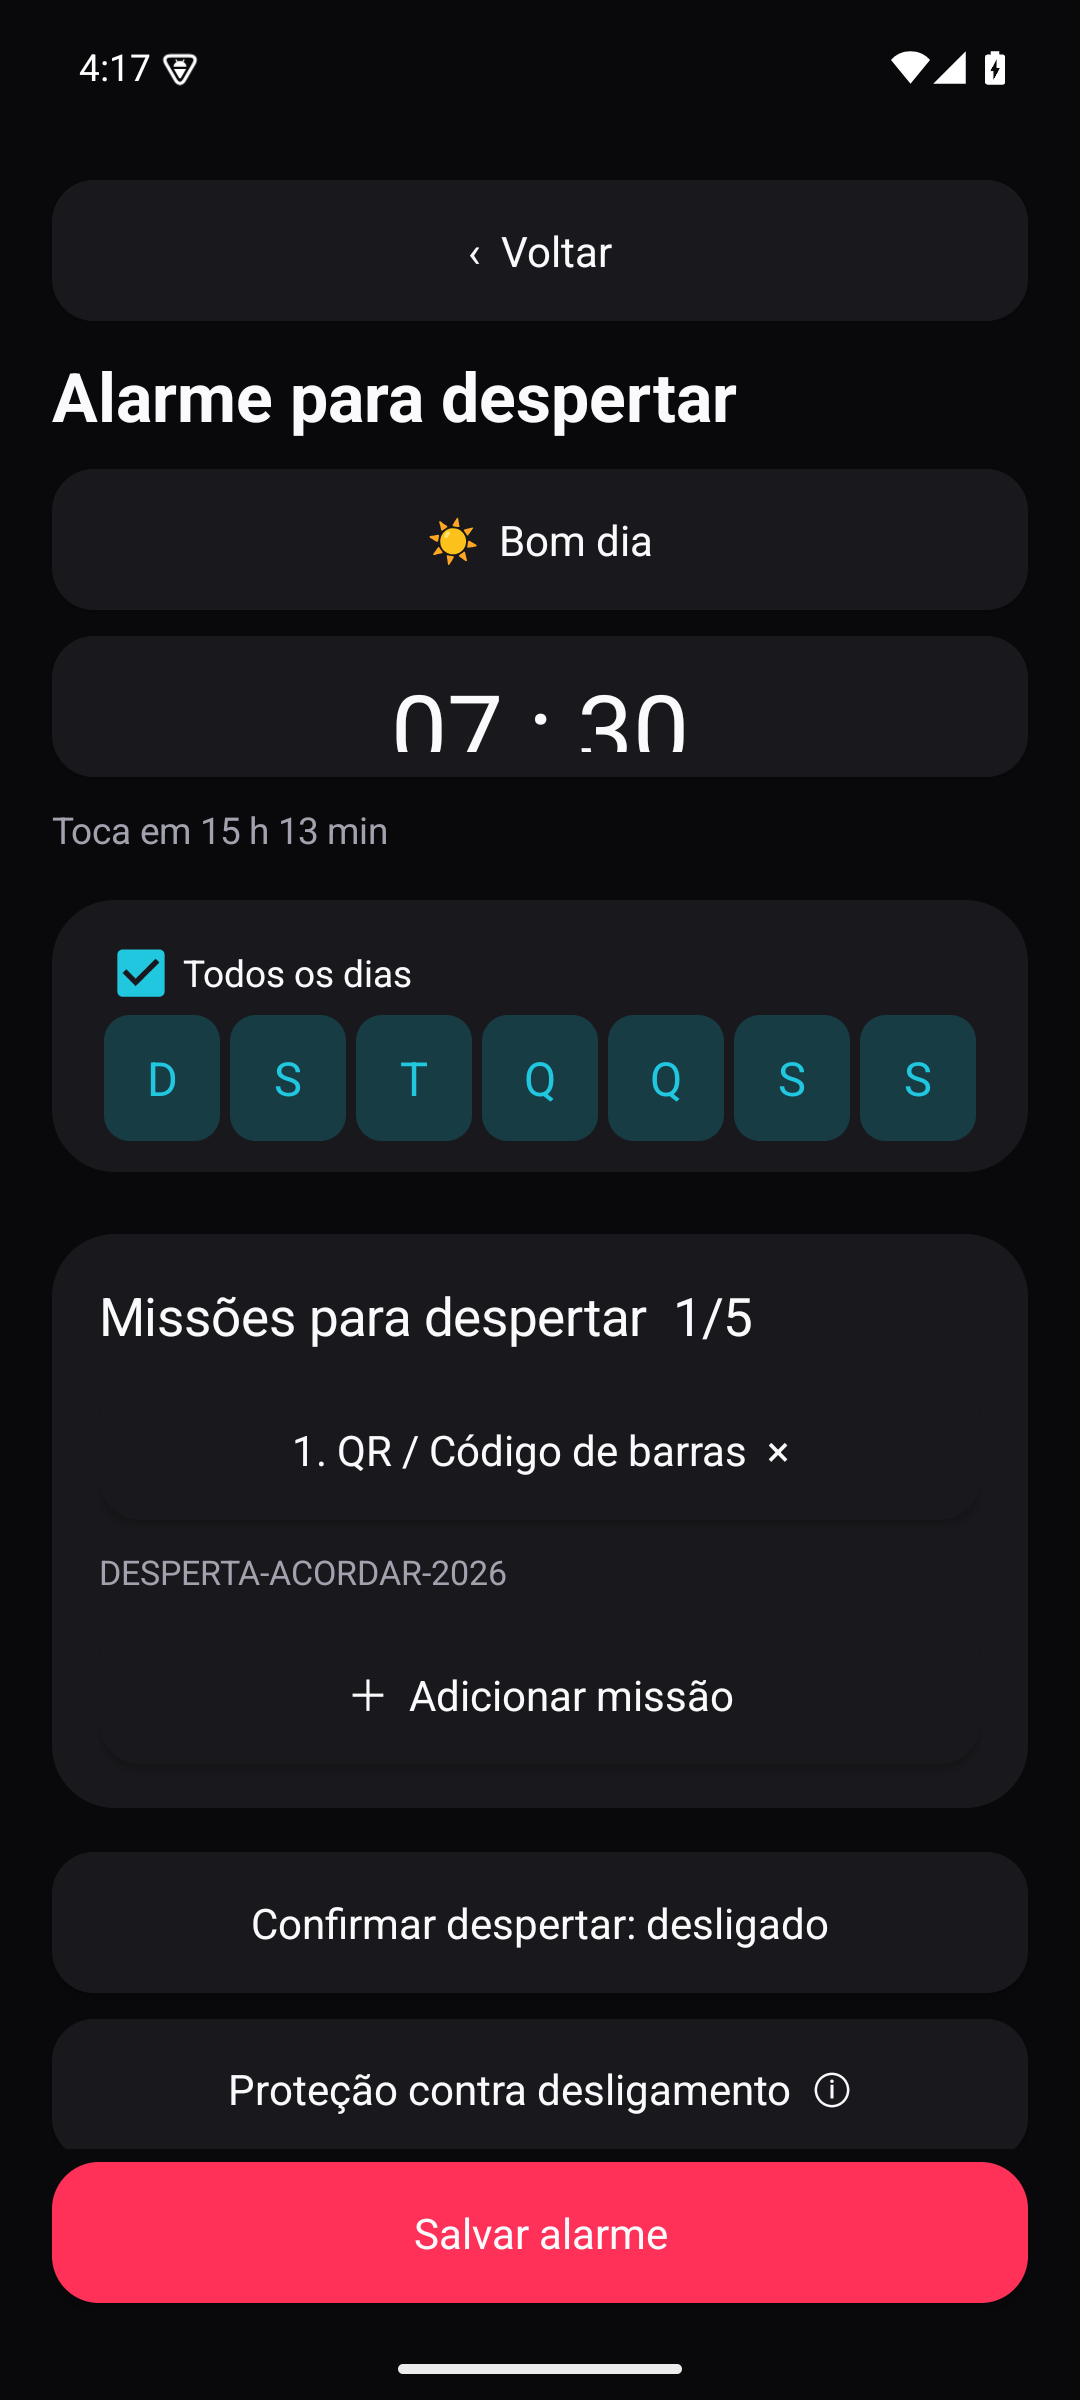
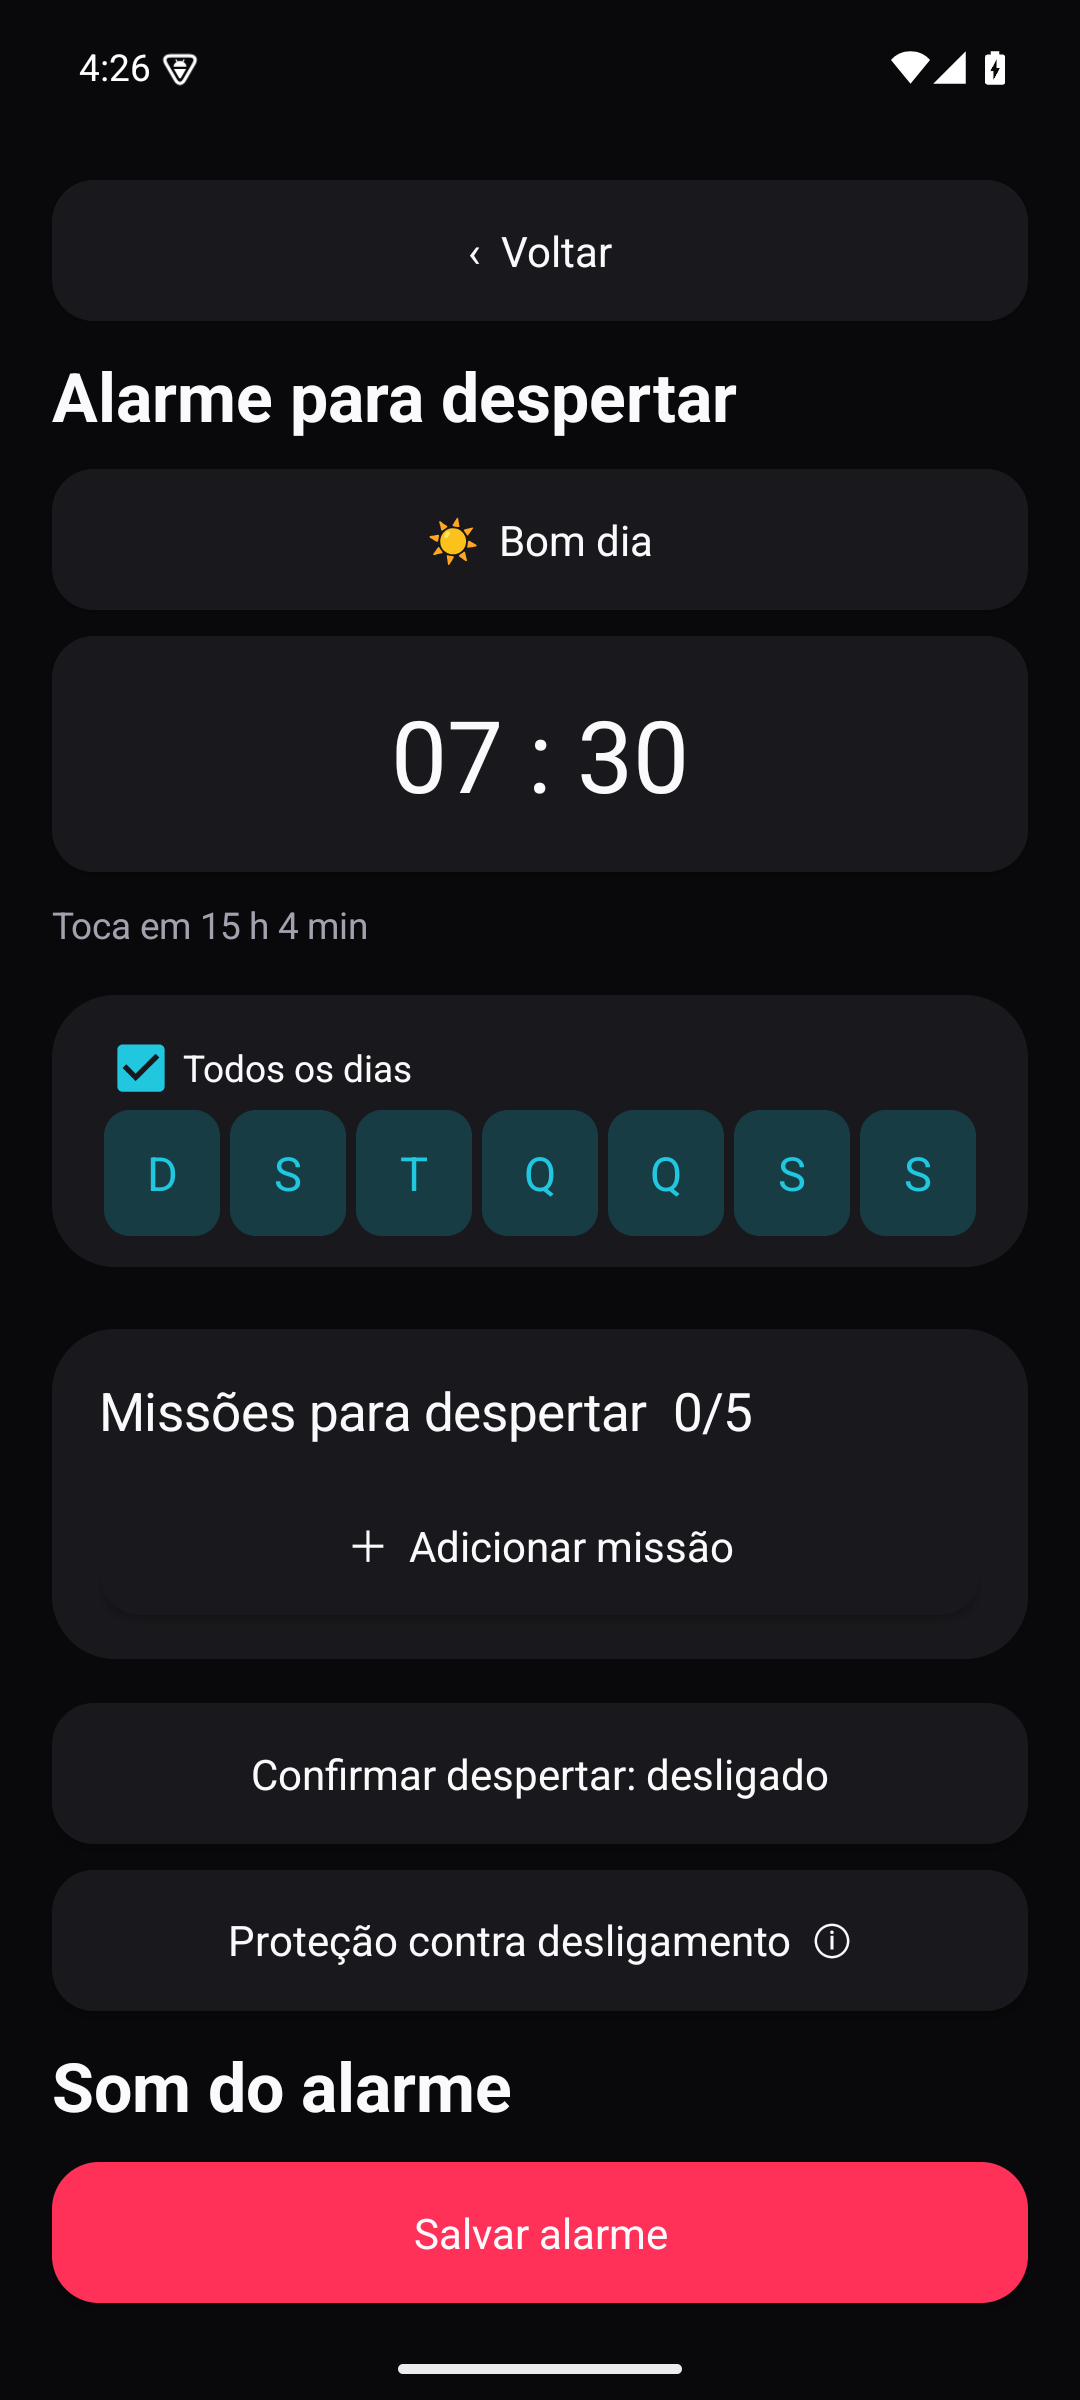
Fix time selector height and verify final signed APK

diff --git a/app/src/main/java/com/desperta/MainActivity.java b/app/src/main/java/com/desperta/MainActivity.java
@@ -362,7 +362,7 @@ public class MainActivity extends Activity {
                         true)
                     .show());
     time.setTextSize(38);
-    time.setHeight(d(90));
+    time.getLayoutParams().height = d(90);
     body.addView(time);
     note(remaining(Scheduler.next(draft, System.currentTimeMillis())));
     LinearLayout daysBox = box();
